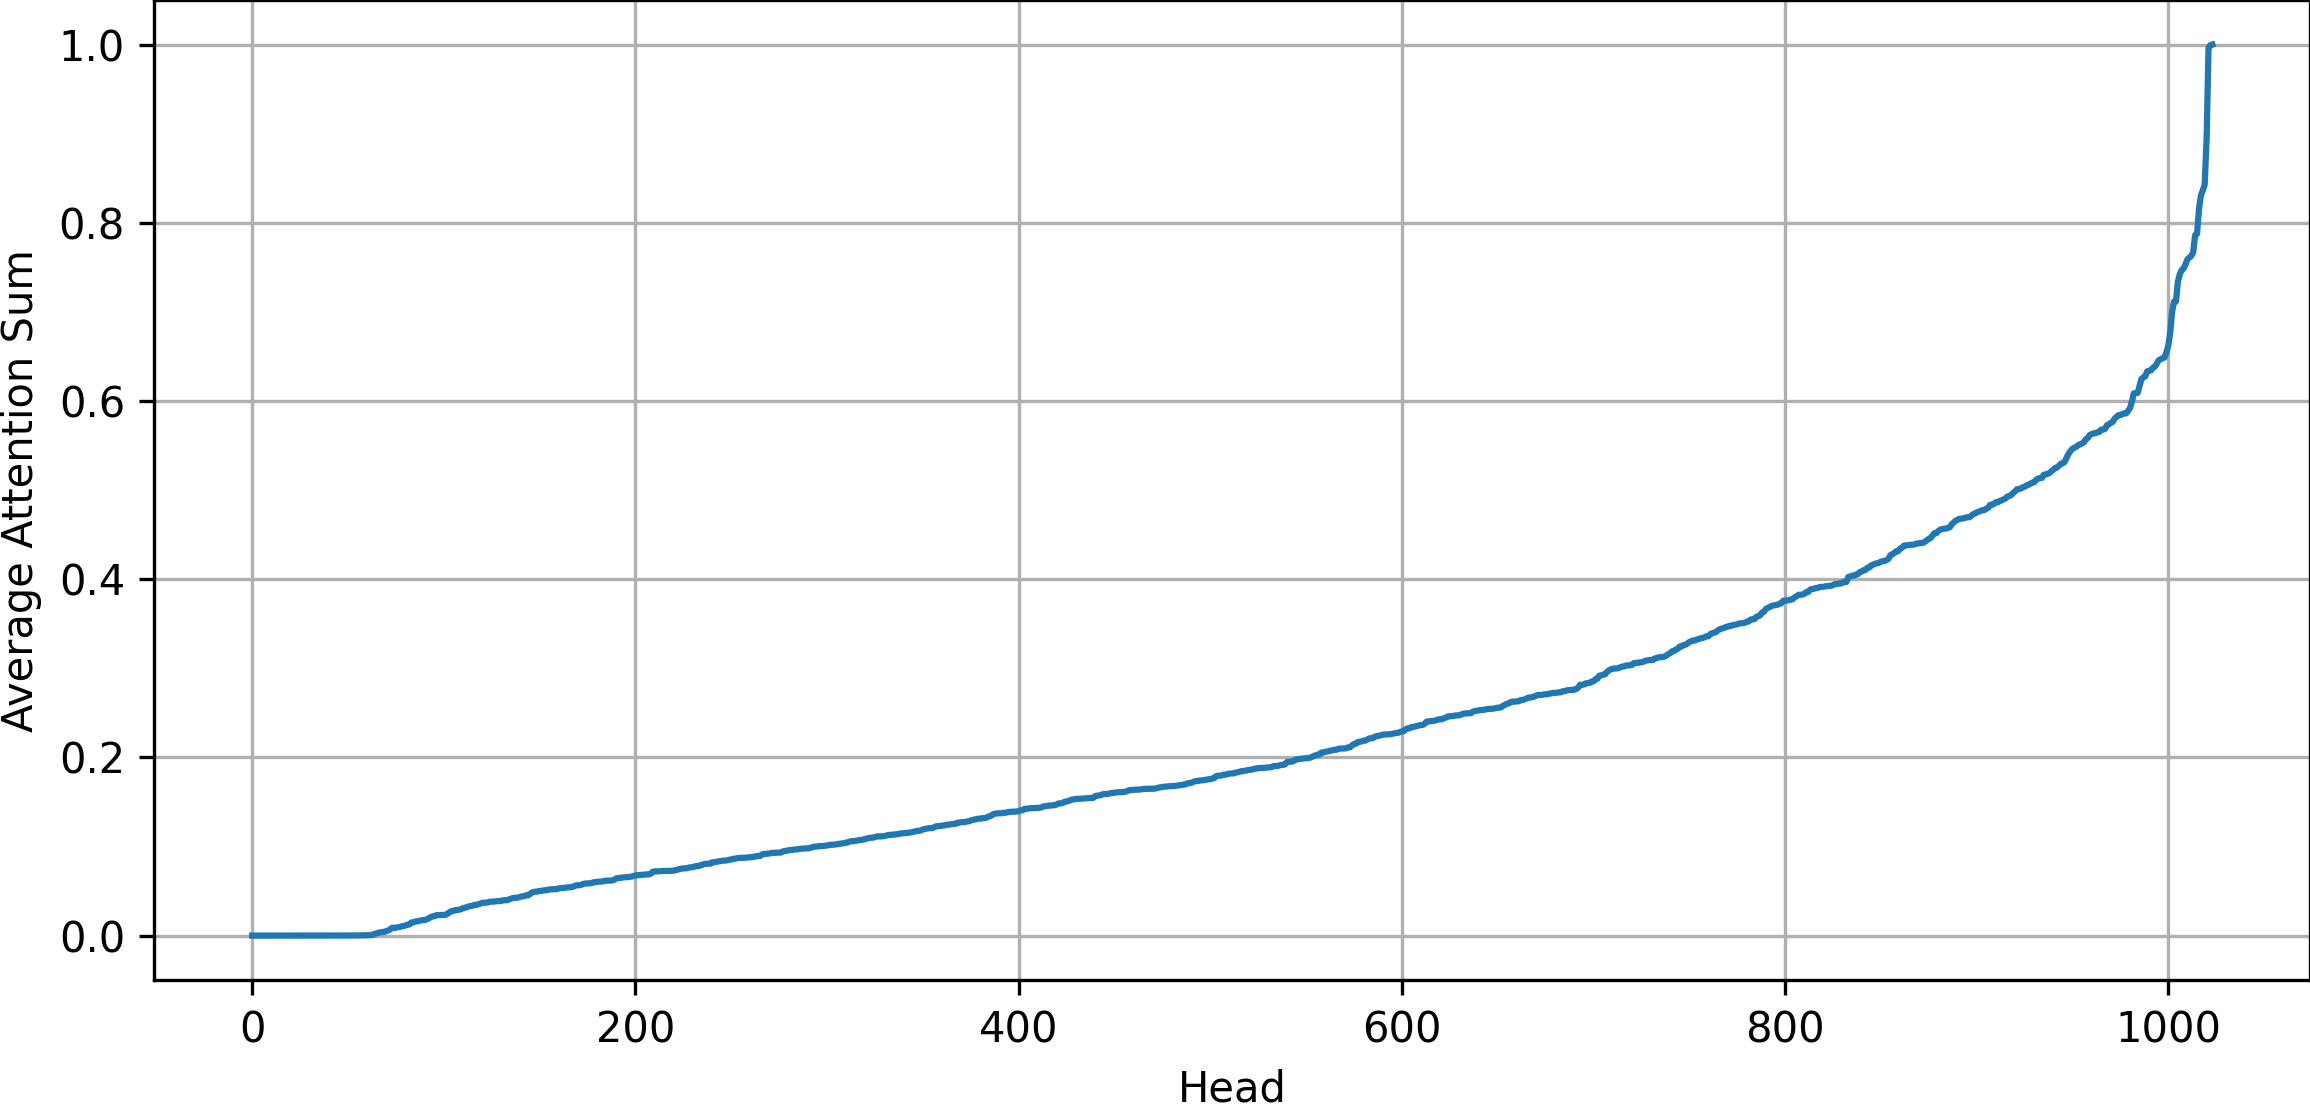
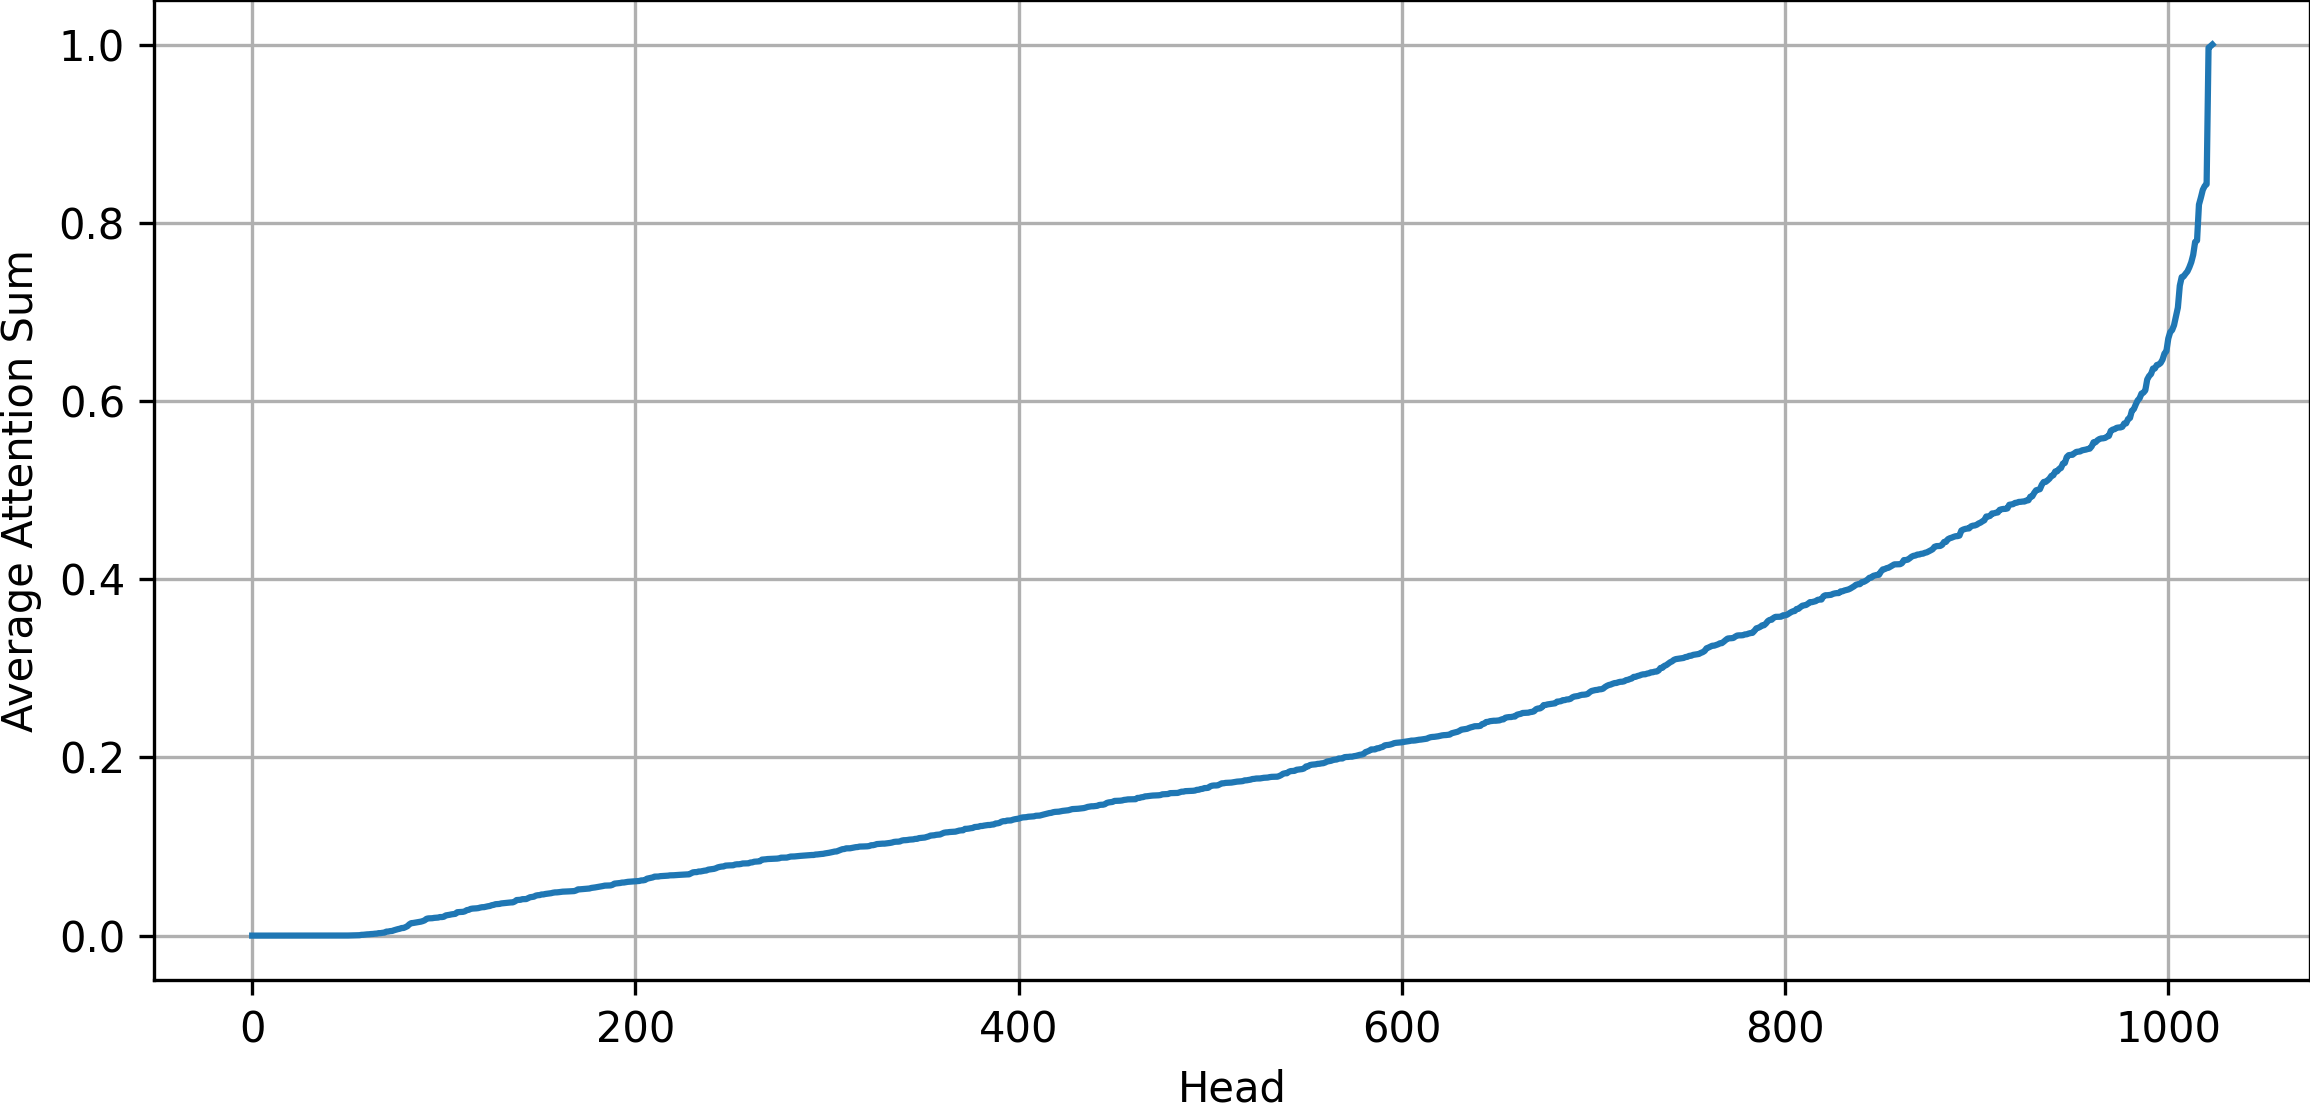
Finding localization heads for mDPO using 500 samples

diff --git a/mDPO/bunny/localization_head.py b/mDPO/bunny/localization_head.py
@@ -232,7 +232,7 @@ def spatial_attention_map(prompt, img_tensor, tokenizer, model):
     # get the attention scores from a particular layer
     #att_scores = outputs.attentions[layer_index].squeeze() # (heads, 781, 781)
 
-    # number of layers
+    # number of layers 
     num_layers = len(outputs.attentions)
 
     # index position where the first image token is located
@@ -264,6 +264,8 @@ def spatial_attention_map(prompt, img_tensor, tokenizer, model):
             all_sam.append((key, ans_img_attn_sum, entropy))
 
     # threshold to filter out the attention maps with low average attention sum
+    # first comment out the function code below then plot the average attention sum
+    # and then find the point of maximum curvature
     aas_threshold = 0.6
     # keep only those attention maps which have high attention map scores
     all_sam = [attn_map for attn_map in all_sam if attn_map[1] > aas_threshold]
@@ -274,14 +276,7 @@ def spatial_attention_map(prompt, img_tensor, tokenizer, model):
     global sel_entropy
     sel_entropy = sel_entropy + all_sam[:10]
 
-    # # sort the attention maps by spatial entropy
-    # all_sam.sort(key=lambda x:x[2])
-    # # take the top-10
-    # all_sam = all_sam[:10]
-
-    #return all_sam[:10]
-
-for data in tqdm(random.sample(json_data, 200), desc='Calculating attention sums'):
+for data in tqdm(random.sample(json_data, 500), desc='Calculating attention sums or entropies'):
     # path of image
     image_path = './data/merged_images/' + data['img_path']
     # prompt text
@@ -323,15 +318,16 @@ for data in tqdm(random.sample(json_data, 200), desc='Calculating attention sums
 
 # 2. PLOT THE SELECTION FREQUENCY FOR EACH HEAD
 # count frequency of each head
-head_counts = Counter([head_info[0] for head_info in sel_entropy])  # if sel_entropy has (key, entropy)
+head_counts = Counter([head_info[0] for head_info in sel_entropy])
 # get the most frequent heads
 freq_head_counts = head_counts.most_common(10)
 # plot the selection frequency
 plt.figure(figsize=(8, 4))
-plt.bar([str(fhc[0]) for fhc in freq_head_counts], [fhc[1] for fhc in freq_head_counts])
-plt.xticks(rotation=90)
+plt.bar([f"L{fhc[0][0]}-H{fhc[0][1]}" for fhc in freq_head_counts], [fhc[1] for fhc in freq_head_counts])
+plt.xticks(rotation=45)
 plt.xlabel("Attention Head (Layer,Head)")
 plt.ylabel("Selection Frequency")
+plt.title(f"{model_name} Selected Frequencies")
 plt.tight_layout()
 plt.savefig(f'./results/sel_freq.png', bbox_inches='tight', pad_inches=0, dpi=300)
 plt.close()
